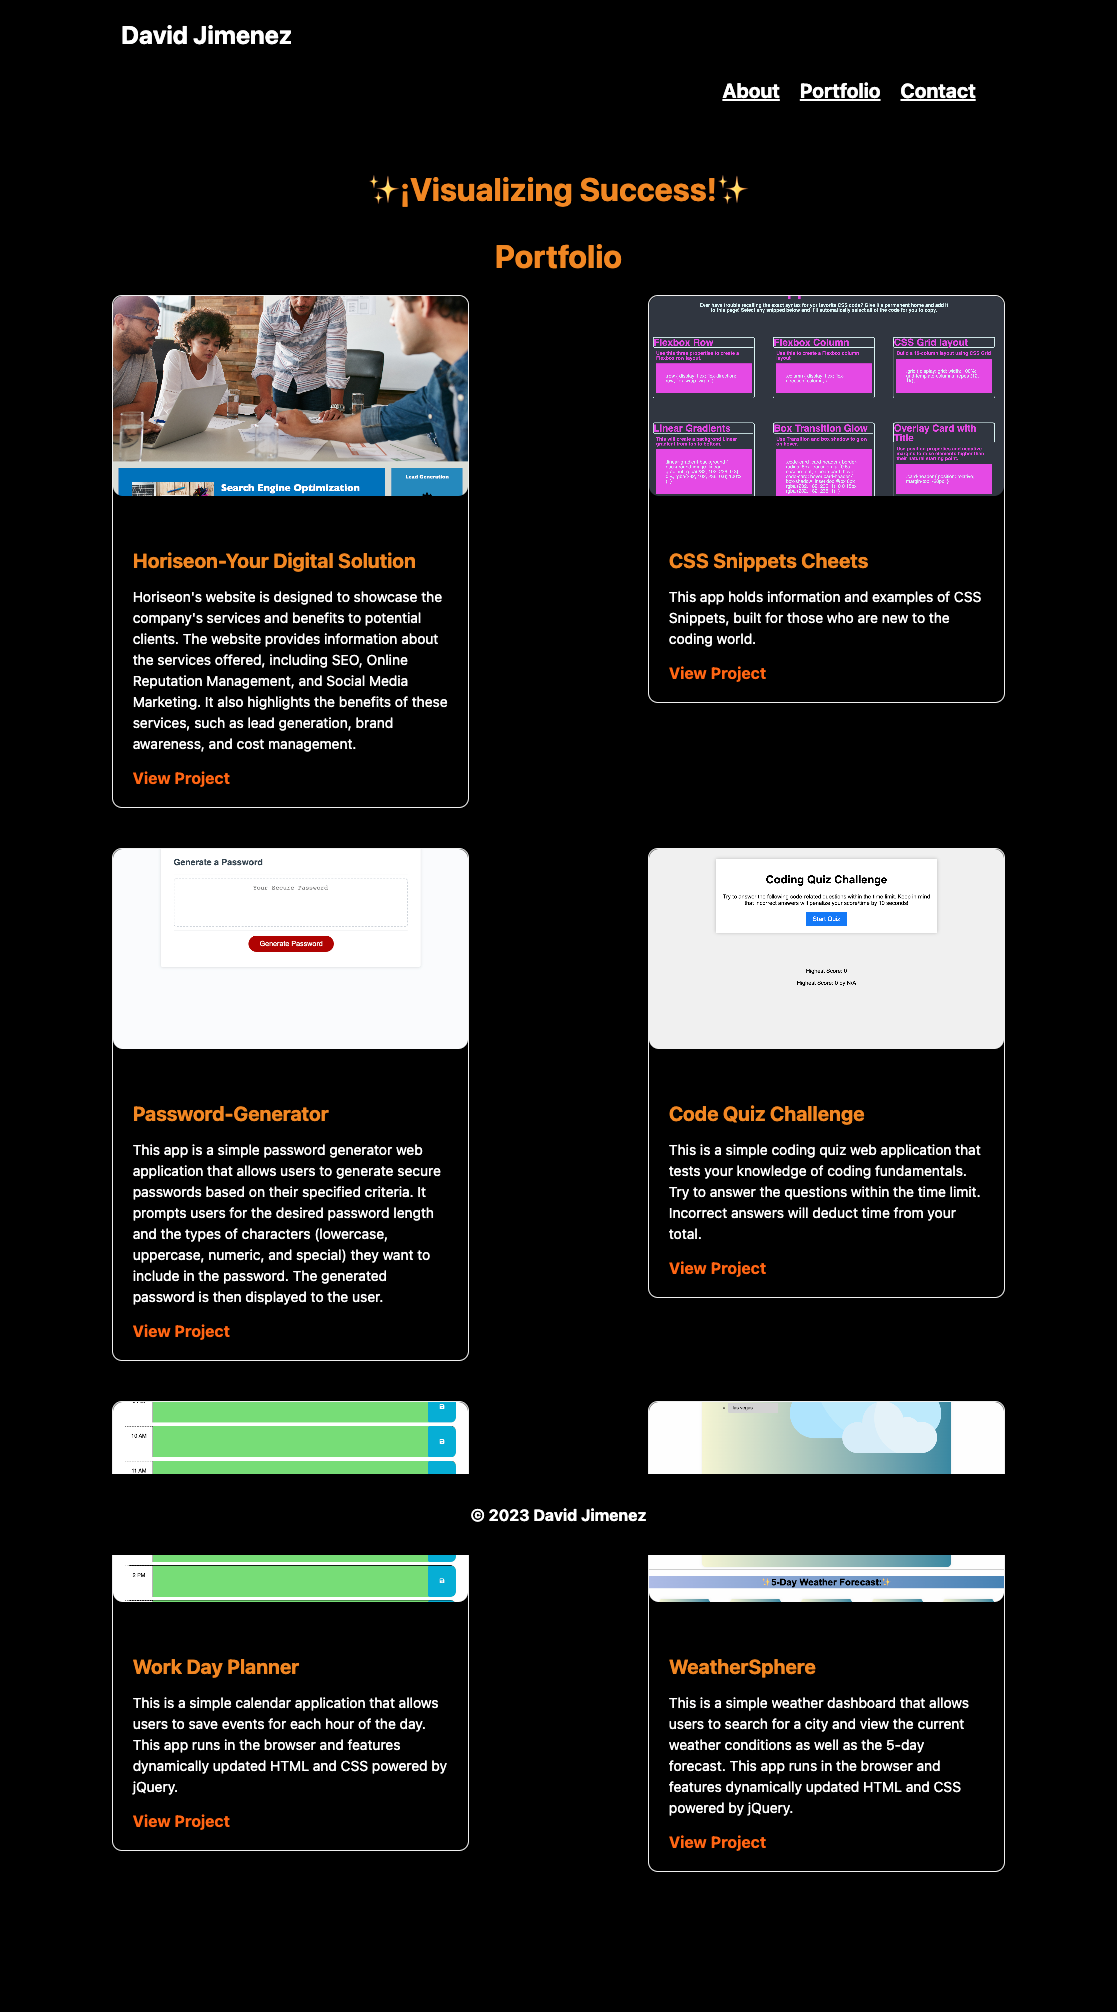
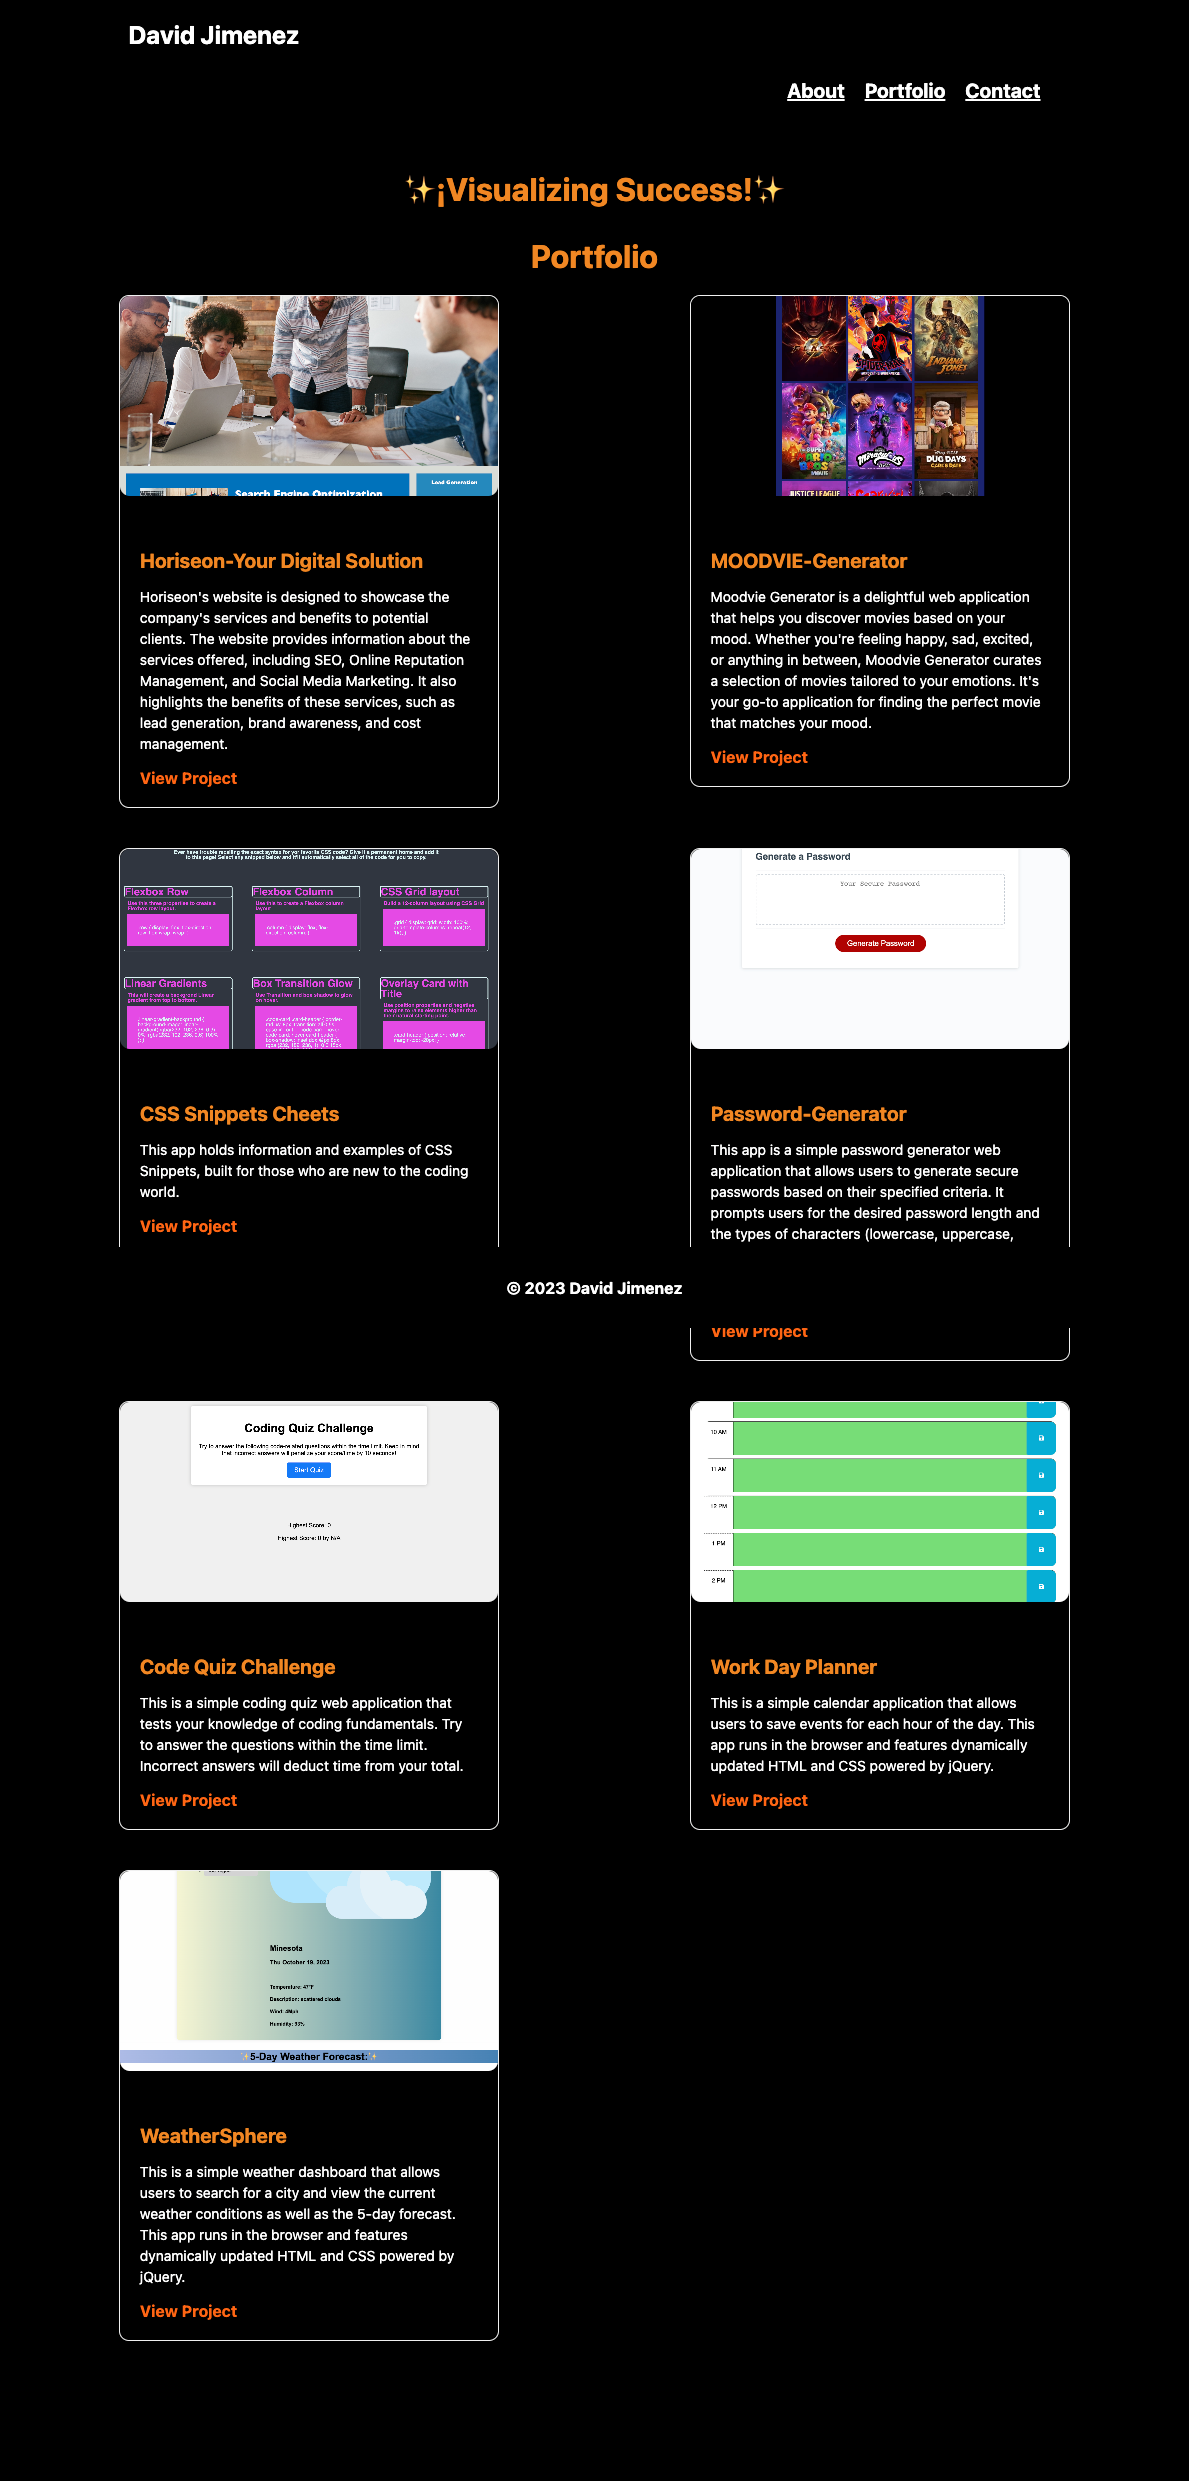
add/new project

diff --git a/index.html b/index.html
@@ -61,6 +61,17 @@
         </main>
             <div class="work-item">
                 <div class="card">
+                    <img class="work-cover-img" src="/assets/images/mooodvie-generator.png" alt="MOODVIE-Generator">
+                    <div class="card-content">
+                        <h3>MOODVIE-Generator</h3>
+                        <p>Moodvie Generator is a delightful web application that helps you discover movies based on your mood. Whether you're feeling happy, sad, excited, or anything in between, Moodvie Generator curates a selection of movies tailored to your emotions. It's your go-to application for finding the perfect movie that matches your mood.</p>
+                        <a href="https://bxiong34.github.io/moodvie-generator/index.html">View Project</a>
+                    </div>
+                </div>
+            </div>
+
+            <div class="work-item">
+                <div class="card">
                     <img class="work-cover-img" src="assets/images/CSS-Snippets-Cheets.png" alt="CSS Snippets Cover">
                     <div class="card-content">
                         <h3>CSS Snippets Cheets</h3>
